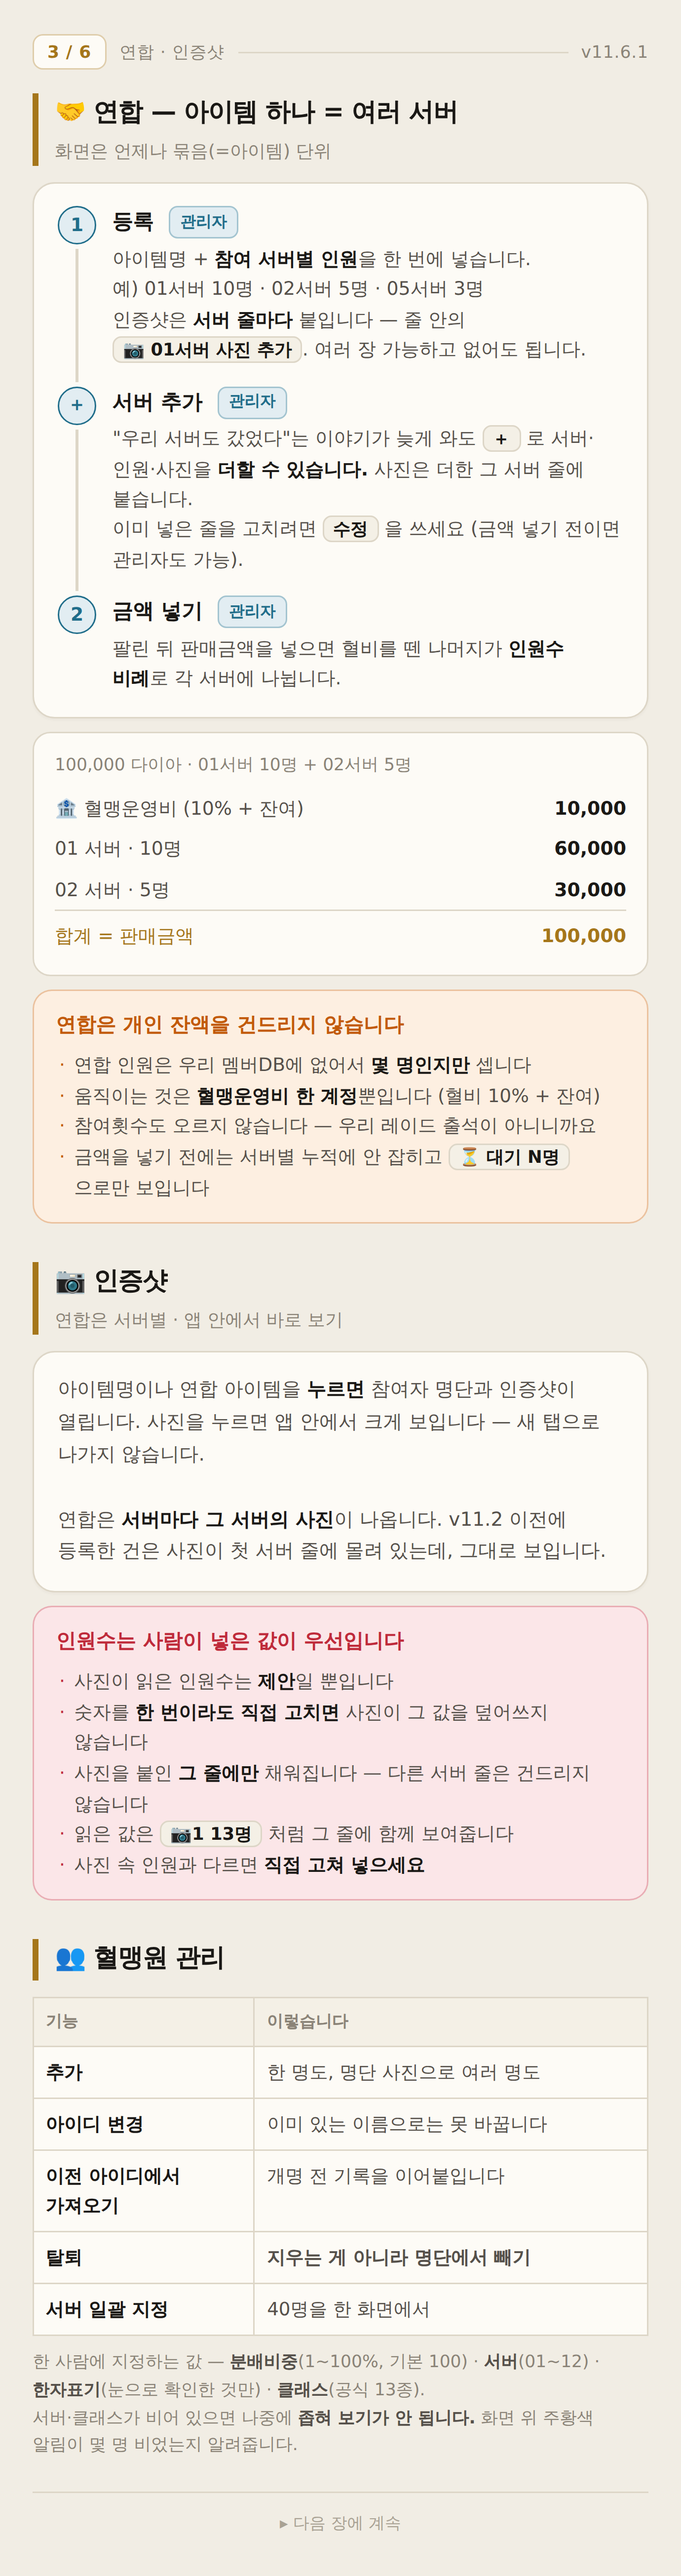
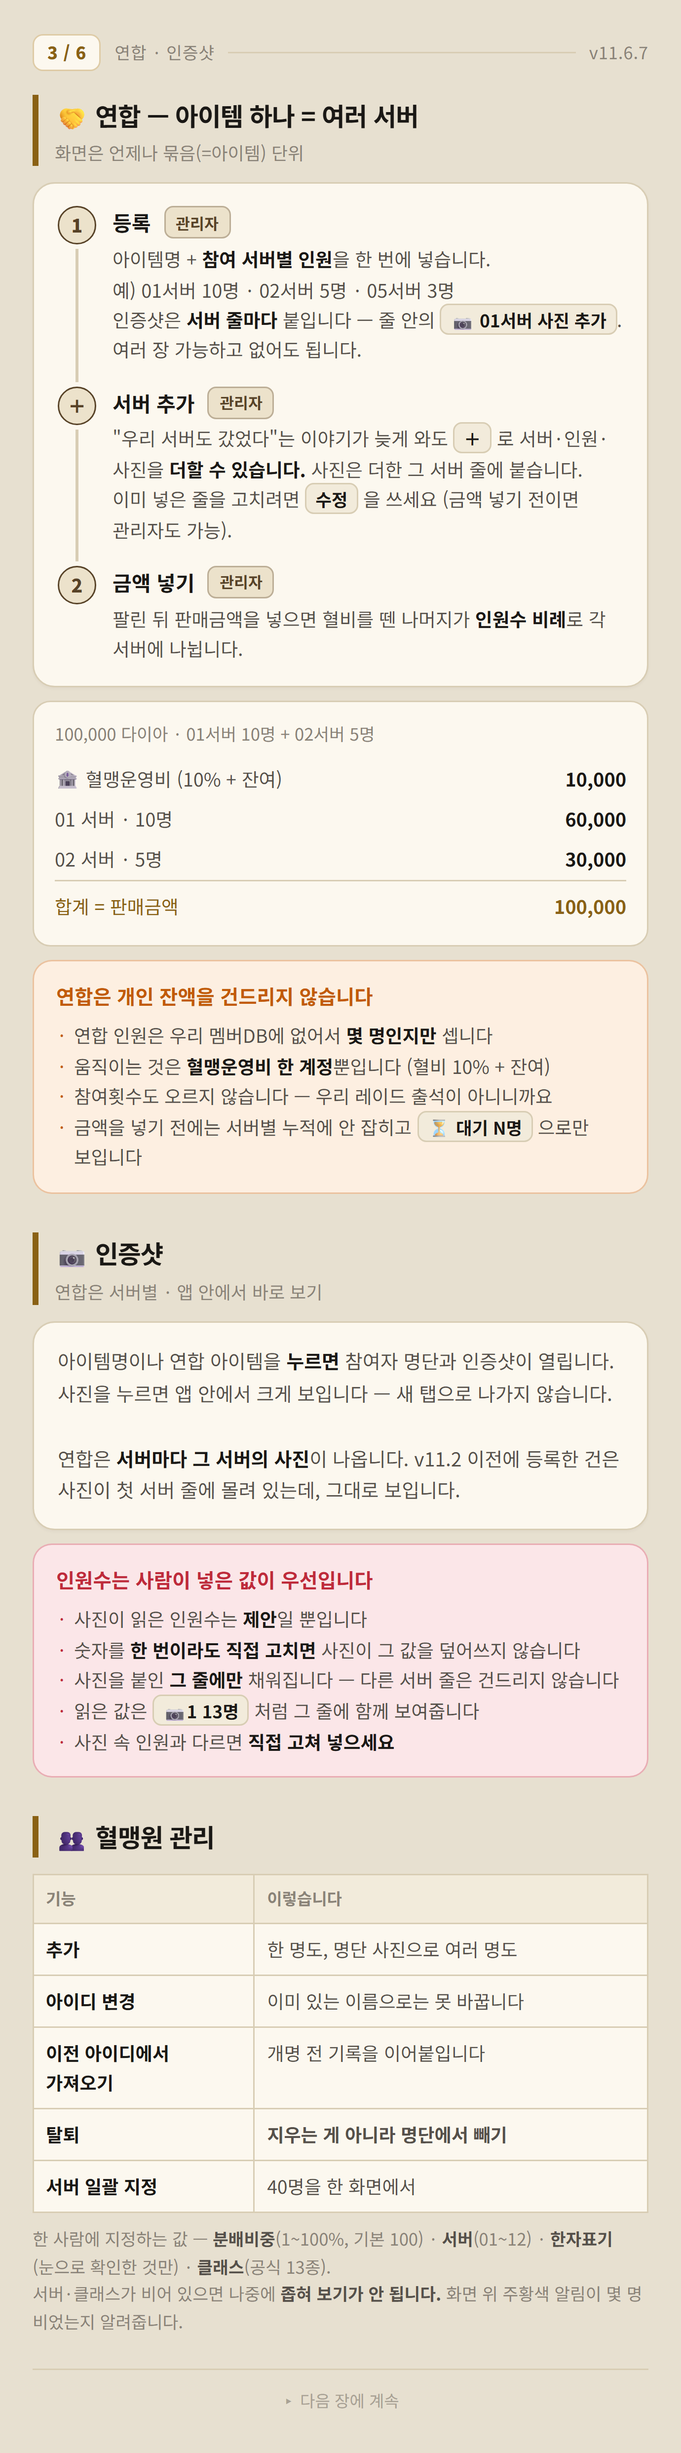
설명서를 새 화면에 맞춘다 (v11.6.7)
설명서는 앱의 색과 아이콘을 자기 토큰·이모지로 **복제**하고 있다.
앱이 바뀌면 여기도 같이 바꿔야 한다 — 안 그러면 "설명서와 다르게 생긴
앱"이 되고, 그건 설명서가 없는 것보다 나쁘다.

  · 색: 청록 → 짙은 청동. 바탕·카드·선·금색을 앱과 같은 값으로
  · 홈 아이콘 격자 8칸: 이모지 → 앱과 **같은 글리프**(SVG). 이모지로 두면
    설명서에서만 기기별로 다른 그림이 나오고 정작 앱은 그 그림이 아니다
  · "파란 숫자" → "숫자 배지" (배지가 더는 파랗지 않다)
  · 「전체 클래스」 → 「클래스 선택」
  · 버전 표기 v11.6.1 → v11.6.7

빠져 있던 기능도 넣었다

  · 아이템을 고르면 그것을 주는 보스가 따라온다 (하나뿐이면 자동,
    여럿이면 칩으로 고르기, 모르면 아무 말 없음)
  · 사전에서 고르면 공식 아이콘까지 붙는다 (아이템 337건)

혈맹원 4장 · 관리 6장.

Changed region(s): [[0.0312, 0.0, 0.9659, 0.9984], [0.8101, 0.312, 0.9348, 0.3744], [0.8725, 0.0, 0.9036, 0.0312]]

diff --git a/docs/manual/admin.html b/docs/manual/admin.html
@@ -9,12 +9,12 @@
 
 <!-- ════════ 1 / 6 ════════ -->
 <div class="page">
-<div class="pnum"><span class="n">1 / 6</span><span>권한 · 화면 구조</span><span class="ln"></span><span>v11.6.1</span></div>
+<div class="pnum"><span class="n">1 / 6</span><span>권한 · 화면 구조</span><span class="ln"></span><span>v11.6.7</span></div>
 
 <div class="head">
   <img src="icon.png" alt="">
   <h1>리니지W 길드매니저</h1>
-  <div class="ver">관리 설명서 · v11.6.1</div>
+  <div class="ver">관리 설명서 · v11.6.7</div>
   <div class="url">
     폰 홈 화면에 추가해서 앱처럼 쓰세요<br>
     <b>lineagewguildmanager.vercel.app</b>
@@ -80,14 +80,14 @@
 
 <h2>화면 구조<small>하단 탭바가 없어지고 홈 아이콘 하나로</small></h2>
 <div class="tabs">
-  <div><span class="em">💰</span><b>잔액</b><span>받을 다이아</span></div>
-  <div><span class="em">📦</span><b>아이템</b><span>등록·분배</span></div>
-  <div><span class="em">🤝</span><b>연합</b><span>서버별 정산</span></div>
-  <div><span class="em">🗡</span><b>레이드</b><span>보스 시간표</span></div>
-  <div><span class="em">🙋</span><b>내 정보</b><span>내 잔액</span></div>
-  <div><span class="em">📋</span><b>게시판</b><span>공지·글</span></div>
-  <div><span class="em">🌏</span><b>언어</b><span>한·中·EN</span></div>
-  <div><span class="em">⚙</span><b>관리</b><span>PIN·도구</span></div>
+  <div><span class="em"><svg viewBox="0 0 24 24" fill="none" stroke="currentColor" stroke-width="1.6" stroke-linecap="round" stroke-linejoin="round" aria-hidden="true"><path d="M9 4.5h6l-1.4 2.6H10.4z"/><path d="M13.6 7.1c3 1.2 5 3.8 5 6.9 0 3.3-2.9 5.5-6.6 5.5S5.4 17.3 5.4 14c0-3.1 2-5.7 5-6.9"/><path d="M12 10.4v6.2M10.2 11.9h3.1a1.4 1.4 0 0 1 0 2.8h-2.6a1.4 1.4 0 0 0 0 2.8h3.1"/></svg></span><b>잔액</b><span>받을 다이아</span></div>
+  <div><span class="em"><svg viewBox="0 0 24 24" fill="none" stroke="currentColor" stroke-width="1.6" stroke-linecap="round" stroke-linejoin="round" aria-hidden="true"><path d="M4 9.6a5.4 5.4 0 0 1 5.4-5.4h5.2A5.4 5.4 0 0 1 20 9.6v.8H4z"/><path d="M4.8 10.4h14.4v7.4a1.8 1.8 0 0 1-1.8 1.8H6.6a1.8 1.8 0 0 1-1.8-1.8z"/><path d="M10.6 10.4h2.8v3.4h-2.8z"/><path d="M12 13.8v2"/></svg></span><b>아이템</b><span>등록·분배</span></div>
+  <div><span class="em"><svg viewBox="0 0 24 24" fill="none" stroke="currentColor" stroke-width="1.6" stroke-linecap="round" stroke-linejoin="round" aria-hidden="true"><circle cx="9" cy="12" r="4.6"/><circle cx="15" cy="12" r="4.6"/><path d="M12 8.6a4.6 4.6 0 0 0 0 6.8"/></svg></span><b>연합</b><span>서버별 정산</span></div>
+  <div><span class="em"><svg viewBox="0 0 24 24" fill="none" stroke="currentColor" stroke-width="1.6" stroke-linecap="round" stroke-linejoin="round" aria-hidden="true"><path d="M12 2.8 14.6 7v7.6H9.4V7z"/><path d="M7.4 14.6h9.2M12 14.6v4M9.6 20.8h4.8"/></svg></span><b>레이드</b><span>보스 시간표</span></div>
+  <div><span class="em"><svg viewBox="0 0 24 24" fill="none" stroke="currentColor" stroke-width="1.6" stroke-linecap="round" stroke-linejoin="round" aria-hidden="true"><circle cx="12" cy="8.4" r="3.4"/><path d="M5.6 19.6a6.4 6.4 0 0 1 12.8 0"/></svg></span><b>내 정보</b><span>내 잔액</span></div>
+  <div><span class="em"><svg viewBox="0 0 24 24" fill="none" stroke="currentColor" stroke-width="1.6" stroke-linecap="round" stroke-linejoin="round" aria-hidden="true"><path d="M6.4 4.4h11.2a1.6 1.6 0 0 1 1.6 1.6v12a1.6 1.6 0 0 1-1.6 1.6H6.4"/><path d="M6.4 4.4A1.6 1.6 0 0 0 4.8 6v12a1.6 1.6 0 0 0 1.6 1.6"/><path d="M8.8 9h7M8.8 12.2h7M8.8 15.4h4.4"/></svg></span><b>게시판</b><span>공지·글</span></div>
+  <div><span class="em"><svg viewBox="0 0 24 24" fill="none" stroke="currentColor" stroke-width="1.6" stroke-linecap="round" stroke-linejoin="round" aria-hidden="true"><circle cx="12" cy="12" r="8.2"/><path d="M12 3.8c2.3 2.2 3.5 5.1 3.5 8.2s-1.2 6-3.5 8.2c-2.3-2.2-3.5-5.1-3.5-8.2s1.2-6 3.5-8.2z"/><path d="M4.2 9.6h15.6M4.2 14.4h15.6"/></svg></span><b>언어</b><span>한·中·EN</span></div>
+  <div><span class="em"><svg viewBox="0 0 24 24" fill="none" stroke="currentColor" stroke-width="1.6" stroke-linecap="round" stroke-linejoin="round" aria-hidden="true"><circle cx="12" cy="12" r="3"/><circle cx="12" cy="12" r="6.4"/><path d="M12 5.6V3.2M12 20.8v-2.4M18.4 12h2.4M3.2 12h2.4"/><path d="m16.5 7.5 1.7-1.7M5.8 18.2l1.7-1.7M16.5 16.5l1.7 1.7M5.8 5.8l1.7 1.7"/></svg></span><b>관리</b><span>PIN·도구</span></div>
 </div>
 <div class="cap" style="margin-top:7px">
   앱을 열면 <b>홈</b>입니다. 아이콘을 눌러 화면을 열고, <kbd>✕</kbd> 나 폰 뒤로가기로 돌아옵니다.<br>
@@ -116,7 +116,7 @@
 
 <!-- ════════ 2 / 6 ════════ -->
 <div class="page">
-<div class="pnum"><span class="n">2 / 6</span><span>아이템 · 분배 산식</span><span class="ln"></span><span>v11.6.1</span></div>
+<div class="pnum"><span class="n">2 / 6</span><span>아이템 · 분배 산식</span><span class="ln"></span><span>v11.6.7</span></div>
 
 <h2>📦 아이템 — 등록부터 지급까지<small>레이드 직후엔 금액을 모르는 게 정상입니다</small></h2>
 <div class="card">
@@ -155,15 +155,28 @@
   <tr><td>아이템명</td><td>자동완성 — <b>中文 · English 로 쳐도</b> 찾아집니다.
     고르면 저장되는 이름은 <b>언제나 한국어</b>입니다</td></tr>
   <tr><td>레이드 날짜</td><td>잡은 날. 등록일과 같으면 비워도 됩니다</td></tr>
-  <tr><td>보스</td><td>자동완성 — <b>보스만</b> 제안됩니다 (아이템에 안 묻힙니다)</td></tr>
+  <tr><td>보스</td><td>자동완성 — <b>보스만</b> 제안됩니다 (아이템에 안 묻힙니다).<br>
+    아이템을 먼저 고르면 <b>그 아이템을 주는 보스가 따라옵니다</b></td></tr>
   <tr><td>루팅 서버 / 캐릭터</td><td>떨어진 서버와 먹은 사람</td></tr>
   <tr><td>참여자</td><td>칩을 눌러 체크. 서버·클래스로 좁혀도
     <b>이미 체크한 사람은 절대 안 숨습니다</b></td></tr>
   <tr><td>인증샷</td><td>여러 장 가능. <b>없어도 등록됩니다</b></td></tr>
 </table>
 <div class="warn info" style="margin-top:9px">
+  <h4>아이템을 고르면 보스가 따라옵니다</h4>
+  <p>공식 게임정보의 드롭표를 앱에 실어 두었습니다 (아이템 170종).</p>
+  <ul>
+    <li>그 아이템을 주는 보스가 <b>하나뿐이면</b> — 자동으로 넣고, 넣었다고 알려줍니다</li>
+    <li>보스가 <b>여럿이면</b> — 정하지 않습니다. 칩으로 늘어놓고 <b>고르시면</b> 됩니다</li>
+    <li>표에 <b>없는</b> 아이템이면 — 아무 말도 하지 않습니다</li>
+  </ul>
+  <p><b>이미 적어둔 보스는 절대 덮어쓰지 않습니다.</b> 고칠 때마다 되돌아오면 그 칸은 못 쓰게 되니까요.
+  표에 없는 보스도 <b>그냥 치면 들어갑니다</b> — 제안일 뿐 입력을 막지 않습니다.</p>
+</div>
+<div class="warn info" style="margin-top:9px">
   <h4>티어 칸은 없습니다</h4>
-  <p>사전에서 고르면 등급 테두리·티어·아이콘이 알아서 붙습니다.
+  <p>사전에서 고르면 등급 테두리·티어·<b>공식 아이콘</b>이 알아서 붙습니다
+  (아이템 337건에 게임 공식 그림을 넣어두었습니다 — 보스는 공식에 그림이 없어 비어 있습니다).
   <b>사전에 없는 이름도 그냥 칠 수 있습니다</b> — 새 아이템 때문에 등록이 멈추면 안 되니까요.</p>
 </div>
 <div class="warn" style="margin-top:9px">
@@ -201,7 +214,7 @@
 
 <!-- ════════ 3 / 6 ════════ -->
 <div class="page">
-<div class="pnum"><span class="n">3 / 6</span><span>연합 · 인증샷</span><span class="ln"></span><span>v11.6.1</span></div>
+<div class="pnum"><span class="n">3 / 6</span><span>연합 · 인증샷</span><span class="ln"></span><span>v11.6.7</span></div>
 
 <h2>🤝 연합 — 아이템 하나 = 여러 서버<small>화면은 언제나 묶음(=아이템) 단위</small></h2>
 <div class="card">
@@ -295,7 +308,7 @@
 
 <!-- ════════ 4 / 6 ════════ -->
 <div class="page">
-<div class="pnum"><span class="n">4 / 6</span><span>용어 사전 · 고치기 · 게시판</span><span class="ln"></span><span>v11.6.1</span></div>
+<div class="pnum"><span class="n">4 / 6</span><span>용어 사전 · 고치기 · 게시판</span><span class="ln"></span><span>v11.6.7</span></div>
 
 <h2>📚 용어 사전<small>이게 앱의 절반입니다 (v11.4)</small></h2>
 <div class="card">
@@ -406,7 +419,7 @@
 
 <!-- ════════ 5 / 6 ════════ -->
 <div class="page">
-<div class="pnum"><span class="n">5 / 6</span><span>주의 · 관리 도구 · 레이드 시간표</span><span class="ln"></span><span>v11.6.1</span></div>
+<div class="pnum"><span class="n">5 / 6</span><span>주의 · 관리 도구 · 레이드 시간표</span><span class="ln"></span><span>v11.6.7</span></div>
 
 <h2>⚠ 꼭 알아두실 것</h2>
 <div class="warn">
@@ -477,7 +490,7 @@
 
 <!-- ════════ 6 / 6 ════════ -->
 <div class="page">
-<div class="pnum"><span class="n">6 / 6</span><span>버전 · 증상별 원인</span><span class="ln"></span><span>v11.6.1</span></div>
+<div class="pnum"><span class="n">6 / 6</span><span>버전 · 증상별 원인</span><span class="ln"></span><span>v11.6.7</span></div>
 
 <h2>🔢 버전 두 개를 맞춰 두세요</h2>
 <table class="grid">
@@ -509,7 +522,7 @@
 </table>
 
 <div class="foot">
-  <b>리니지W 길드매니저 v11.6.1</b><br>
+  <b>리니지W 길드매니저 v11.6.7</b><br>
   구글시트 = 진짜 데이터 · 앱 = 화면<br>
   브라우저는 구글시트를 직접 부르지 않습니다 (PIN·토큰 보호)
 </div>

diff --git a/docs/manual/member.html b/docs/manual/member.html
@@ -9,7 +9,7 @@
 
 <!-- ════════ 1 / 4 ════════ -->
 <div class="page">
-<div class="pnum"><span class="n">1 / 4</span><span>시작하기 · 화면 찾기 · 내 다이아</span><span class="ln"></span><span>v11.6.1</span></div>
+<div class="pnum"><span class="n">1 / 4</span><span>시작하기 · 화면 찾기 · 내 다이아</span><span class="ln"></span><span>v11.6.7</span></div>
 
 <div class="head">
   <img src="icon.png" alt="">
@@ -50,17 +50,17 @@
 
 <h2 class="t">🗂 화면 찾아가기<small>앱을 열면 나오는 홈에서 전부 열립니다</small></h2>
 <div class="tabs">
-  <div><span class="em">💰</span><b>잔액</b><span>모두의 잔액</span></div>
-  <div><span class="em">📦</span><b>아이템</b><span>등록된 아이템</span></div>
-  <div><span class="em">🤝</span><b>연합</b><span>서버별 정산</span></div>
-  <div><span class="em">🗡</span><b>레이드</b><span>오늘 보스</span></div>
-  <div><span class="em">🙋</span><b>내 정보</b><span>내 다이아</span></div>
-  <div><span class="em">📋</span><b>게시판</b><span>공지·글쓰기</span></div>
-  <div><span class="em">🌏</span><b>언어</b><span>한·中·EN</span></div>
-  <div><span class="em">⚙</span><b>관리</b><span>관리자용</span></div>
+  <div><span class="em"><svg viewBox="0 0 24 24" fill="none" stroke="currentColor" stroke-width="1.6" stroke-linecap="round" stroke-linejoin="round" aria-hidden="true"><path d="M9 4.5h6l-1.4 2.6H10.4z"/><path d="M13.6 7.1c3 1.2 5 3.8 5 6.9 0 3.3-2.9 5.5-6.6 5.5S5.4 17.3 5.4 14c0-3.1 2-5.7 5-6.9"/><path d="M12 10.4v6.2M10.2 11.9h3.1a1.4 1.4 0 0 1 0 2.8h-2.6a1.4 1.4 0 0 0 0 2.8h3.1"/></svg></span><b>잔액</b><span>모두의 잔액</span></div>
+  <div><span class="em"><svg viewBox="0 0 24 24" fill="none" stroke="currentColor" stroke-width="1.6" stroke-linecap="round" stroke-linejoin="round" aria-hidden="true"><path d="M4 9.6a5.4 5.4 0 0 1 5.4-5.4h5.2A5.4 5.4 0 0 1 20 9.6v.8H4z"/><path d="M4.8 10.4h14.4v7.4a1.8 1.8 0 0 1-1.8 1.8H6.6a1.8 1.8 0 0 1-1.8-1.8z"/><path d="M10.6 10.4h2.8v3.4h-2.8z"/><path d="M12 13.8v2"/></svg></span><b>아이템</b><span>등록된 아이템</span></div>
+  <div><span class="em"><svg viewBox="0 0 24 24" fill="none" stroke="currentColor" stroke-width="1.6" stroke-linecap="round" stroke-linejoin="round" aria-hidden="true"><circle cx="9" cy="12" r="4.6"/><circle cx="15" cy="12" r="4.6"/><path d="M12 8.6a4.6 4.6 0 0 0 0 6.8"/></svg></span><b>연합</b><span>서버별 정산</span></div>
+  <div><span class="em"><svg viewBox="0 0 24 24" fill="none" stroke="currentColor" stroke-width="1.6" stroke-linecap="round" stroke-linejoin="round" aria-hidden="true"><path d="M12 2.8 14.6 7v7.6H9.4V7z"/><path d="M7.4 14.6h9.2M12 14.6v4M9.6 20.8h4.8"/></svg></span><b>레이드</b><span>오늘 보스</span></div>
+  <div><span class="em"><svg viewBox="0 0 24 24" fill="none" stroke="currentColor" stroke-width="1.6" stroke-linecap="round" stroke-linejoin="round" aria-hidden="true"><circle cx="12" cy="8.4" r="3.4"/><path d="M5.6 19.6a6.4 6.4 0 0 1 12.8 0"/></svg></span><b>내 정보</b><span>내 다이아</span></div>
+  <div><span class="em"><svg viewBox="0 0 24 24" fill="none" stroke="currentColor" stroke-width="1.6" stroke-linecap="round" stroke-linejoin="round" aria-hidden="true"><path d="M6.4 4.4h11.2a1.6 1.6 0 0 1 1.6 1.6v12a1.6 1.6 0 0 1-1.6 1.6H6.4"/><path d="M6.4 4.4A1.6 1.6 0 0 0 4.8 6v12a1.6 1.6 0 0 0 1.6 1.6"/><path d="M8.8 9h7M8.8 12.2h7M8.8 15.4h4.4"/></svg></span><b>게시판</b><span>공지·글쓰기</span></div>
+  <div><span class="em"><svg viewBox="0 0 24 24" fill="none" stroke="currentColor" stroke-width="1.6" stroke-linecap="round" stroke-linejoin="round" aria-hidden="true"><circle cx="12" cy="12" r="8.2"/><path d="M12 3.8c2.3 2.2 3.5 5.1 3.5 8.2s-1.2 6-3.5 8.2c-2.3-2.2-3.5-5.1-3.5-8.2s1.2-6 3.5-8.2z"/><path d="M4.2 9.6h15.6M4.2 14.4h15.6"/></svg></span><b>언어</b><span>한·中·EN</span></div>
+  <div><span class="em"><svg viewBox="0 0 24 24" fill="none" stroke="currentColor" stroke-width="1.6" stroke-linecap="round" stroke-linejoin="round" aria-hidden="true"><circle cx="12" cy="12" r="3"/><circle cx="12" cy="12" r="6.4"/><path d="M12 5.6V3.2M12 20.8v-2.4M18.4 12h2.4M3.2 12h2.4"/><path d="m16.5 7.5 1.7-1.7M5.8 18.2l1.7-1.7M16.5 16.5l1.7 1.7M5.8 5.8l1.7 1.7"/></svg></span><b>관리</b><span>관리자용</span></div>
 </div>
 <div class="cap" style="margin-top:8px">
-  아이콘 오른쪽 위 <b>파란 숫자</b>는 지금 기다리고 있는 건수입니다
+  아이콘 오른쪽 위 <b>숫자 배지</b>는 지금 기다리고 있는 건수입니다
   (미분배 아이템 · 지급받을 사람 · 오늘 보스).<br>
   <b>⚙ 관리</b>는 PIN 이 필요합니다 — 관리자용이라 누르셔도 아무 일도 없습니다.
 </div>
@@ -112,7 +112,7 @@
 
 <!-- ════════ 2 / 4 ════════ -->
 <div class="page">
-<div class="pnum"><span class="n">2 / 4</span><span>잔액 읽기 · 좁혀 보기 · 아이템 이름</span><span class="ln"></span><span>v11.6.1</span></div>
+<div class="pnum"><span class="n">2 / 4</span><span>잔액 읽기 · 좁혀 보기 · 아이템 이름</span><span class="ln"></span><span>v11.6.7</span></div>
 
 <h2>💰 [잔액] 화면 보는 법</h2>
 <div class="demo">
@@ -155,7 +155,7 @@
   <ul>
     <li>아무것도 안 고르면 <b>전원</b>이 나옵니다. 그게 기본입니다</li>
     <li>칩을 다시 누르면 풀립니다</li>
-    <li><b>「전체 클래스」와 「클래스 미지정」은 다릅니다</b> — 미지정을 고르면
+    <li><b>「클래스 선택」과 「클래스 미지정」은 다릅니다</b> — 미지정을 고르면
     아직 클래스를 안 넣은 사람만 나옵니다</li>
     <li>인원이 0인 클래스는 목록에 아예 안 나옵니다</li>
   </ul>
@@ -192,7 +192,7 @@
 
 <!-- ════════ 3 / 4 ════════ -->
 <div class="page">
-<div class="pnum"><span class="n">3 / 4</span><span>아이템 · 연합 · 레이드 · 게시판</span><span class="ln"></span><span>v11.6.1</span></div>
+<div class="pnum"><span class="n">3 / 4</span><span>아이템 · 연합 · 레이드 · 게시판</span><span class="ln"></span><span>v11.6.7</span></div>
 
 <h2 class="t">📦 내가 참여한 아이템 보기</h2>
 <div class="card">
@@ -252,7 +252,7 @@
 
 <!-- ════════ 4 / 4 ════════ -->
 <div class="page">
-<div class="pnum"><span class="n">4 / 4</span><span>언어 · 공유 · 자주 묻는 것</span><span class="ln"></span><span>v11.6.1</span></div>
+<div class="pnum"><span class="n">4 / 4</span><span>언어 · 공유 · 자주 묻는 것</span><span class="ln"></span><span>v11.6.7</span></div>
 
 <h2 class="t">🌏 中文 · English<small>홈에서 [🌏 언어]</small></h2>
 <div class="card">
@@ -318,7 +318,7 @@
 </div>
 
 <div class="foot">
-  <b>리니지W 길드매니저 v11.6.1</b><br>
+  <b>리니지W 길드매니저 v11.6.7</b><br>
   기록은 지워지지 않습니다 — 지난 시즌 기록도 그대로 남아 있습니다<br>
   궁금한 점은 게시판이나 관리자에게 물어보세요
 </div>

diff --git a/docs/manual/style.css b/docs/manual/style.css
@@ -8,21 +8,24 @@
  * ★ 혈맹원용·관리자용이 이 파일 하나를 같이 쓴다. 두 벌로 두면 한쪽만 고쳐진다.
  */
 :root {
-  --bg: #f1ede4;
-  --card: #fdfbf6;
-  --card2: #f4f0e6;
-  --line: #ddd6c7;
+  --bg: #e7e0d0;
+  --card: #fcf8ef;
+  --card2: #f2ebdb;
+  --line: #d8cdb4;
 
   --text: #1a1815;
   --dim: #55504a;
   --faint: #8a8377;
   --pale: #a9a294;
 
-  --teal: #1f6d8a;
-  --teal-soft: #e2edf2;
-  --teal-line: rgba(31, 109, 138, 0.32);
+  /* 누르는 것 — 앱과 같은 짙은 청동 (v11.7).
+     이름은 그대로 --teal 이지만 색은 청동이다. 이름을 바꾸면 이 파일 열 곳을
+     같이 고쳐야 하고, 한 곳이라도 빠지면 그 자리만 옛 색이 남는다. */
+  --teal: #574227;
+  --teal-soft: #ece2cb;
+  --teal-line: rgba(87, 66, 39, 0.32);
 
-  --gold: #a5761a;
+  --gold: #8a6114;
   --gold-soft: #f8f0dd;
   --gold-line: rgba(165, 118, 26, 0.34);
 
@@ -248,9 +251,16 @@ h2.t {
   box-shadow: 0 1px 2px rgba(40, 32, 16, 0.04);
 }
 .tabs .em {
-  font-size: 19px;
   display: block;
-  margin-bottom: 3px;
+  margin: 0 auto 4px;
+  width: 22px;
+  height: 22px;
+  color: var(--gold);
+}
+.tabs .em svg {
+  width: 100%;
+  height: 100%;
+  display: block;
 }
 .tabs b {
   font-size: 12.5px;
